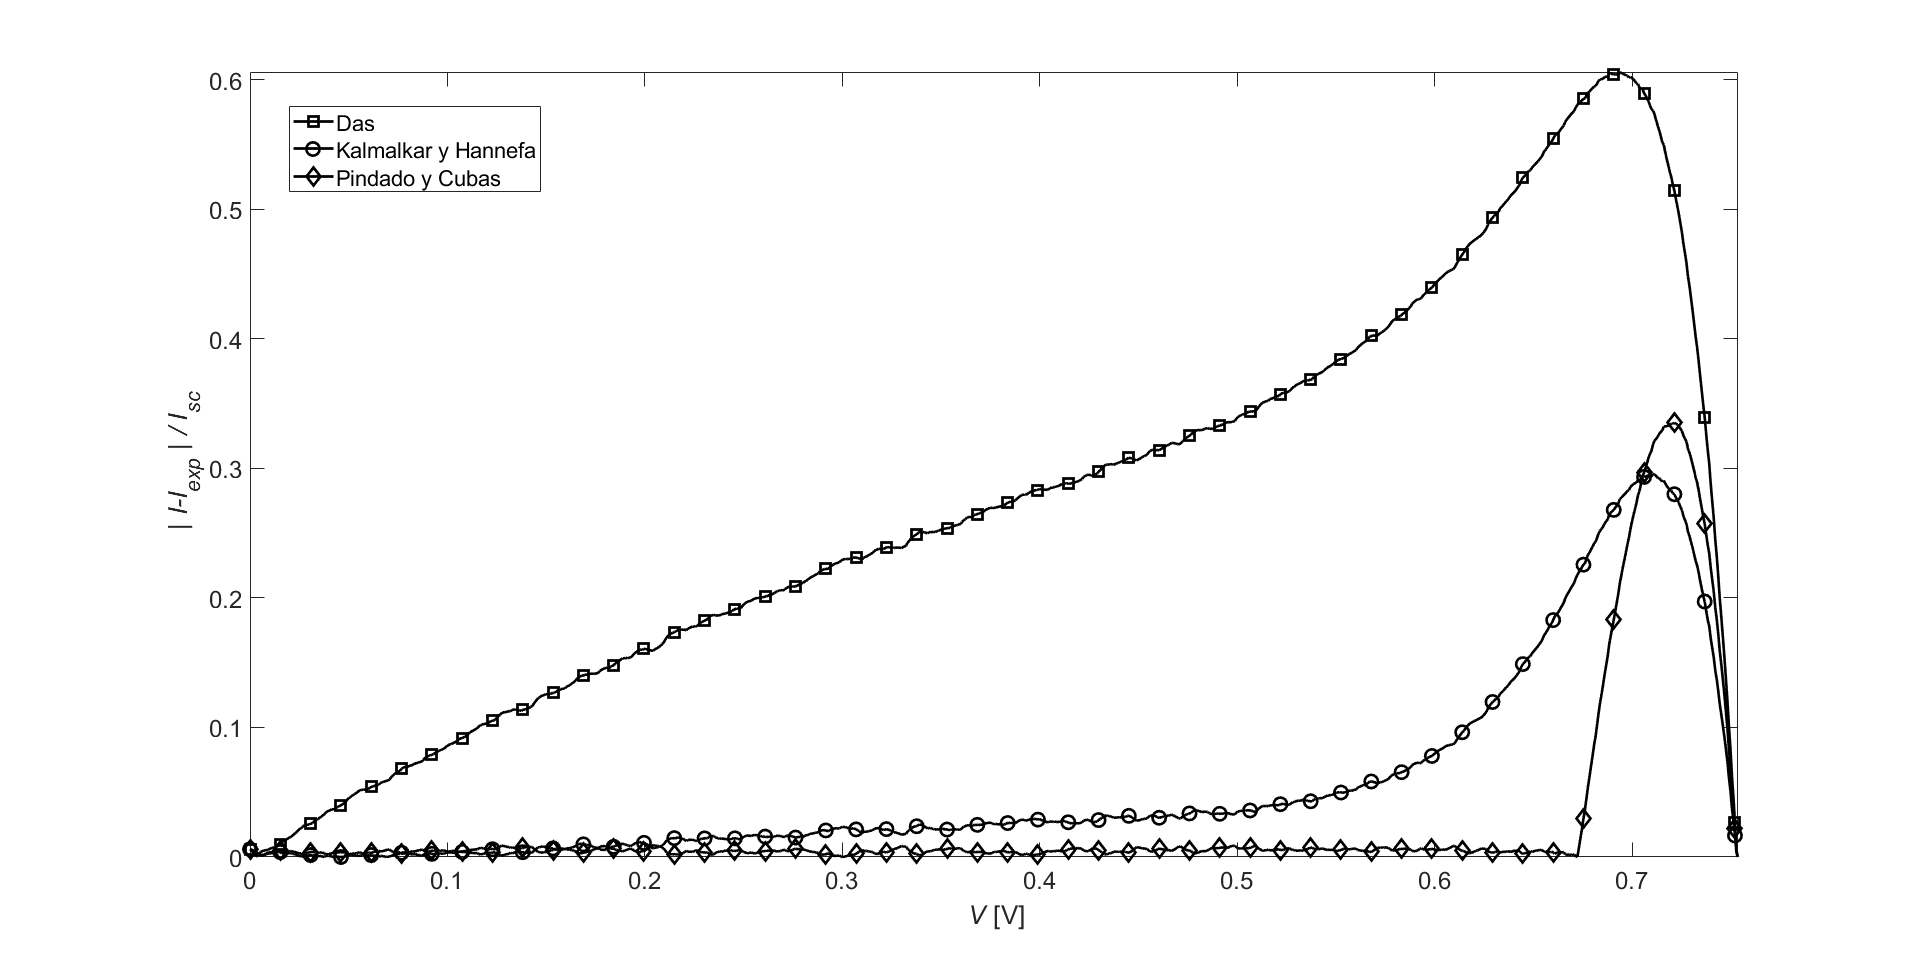
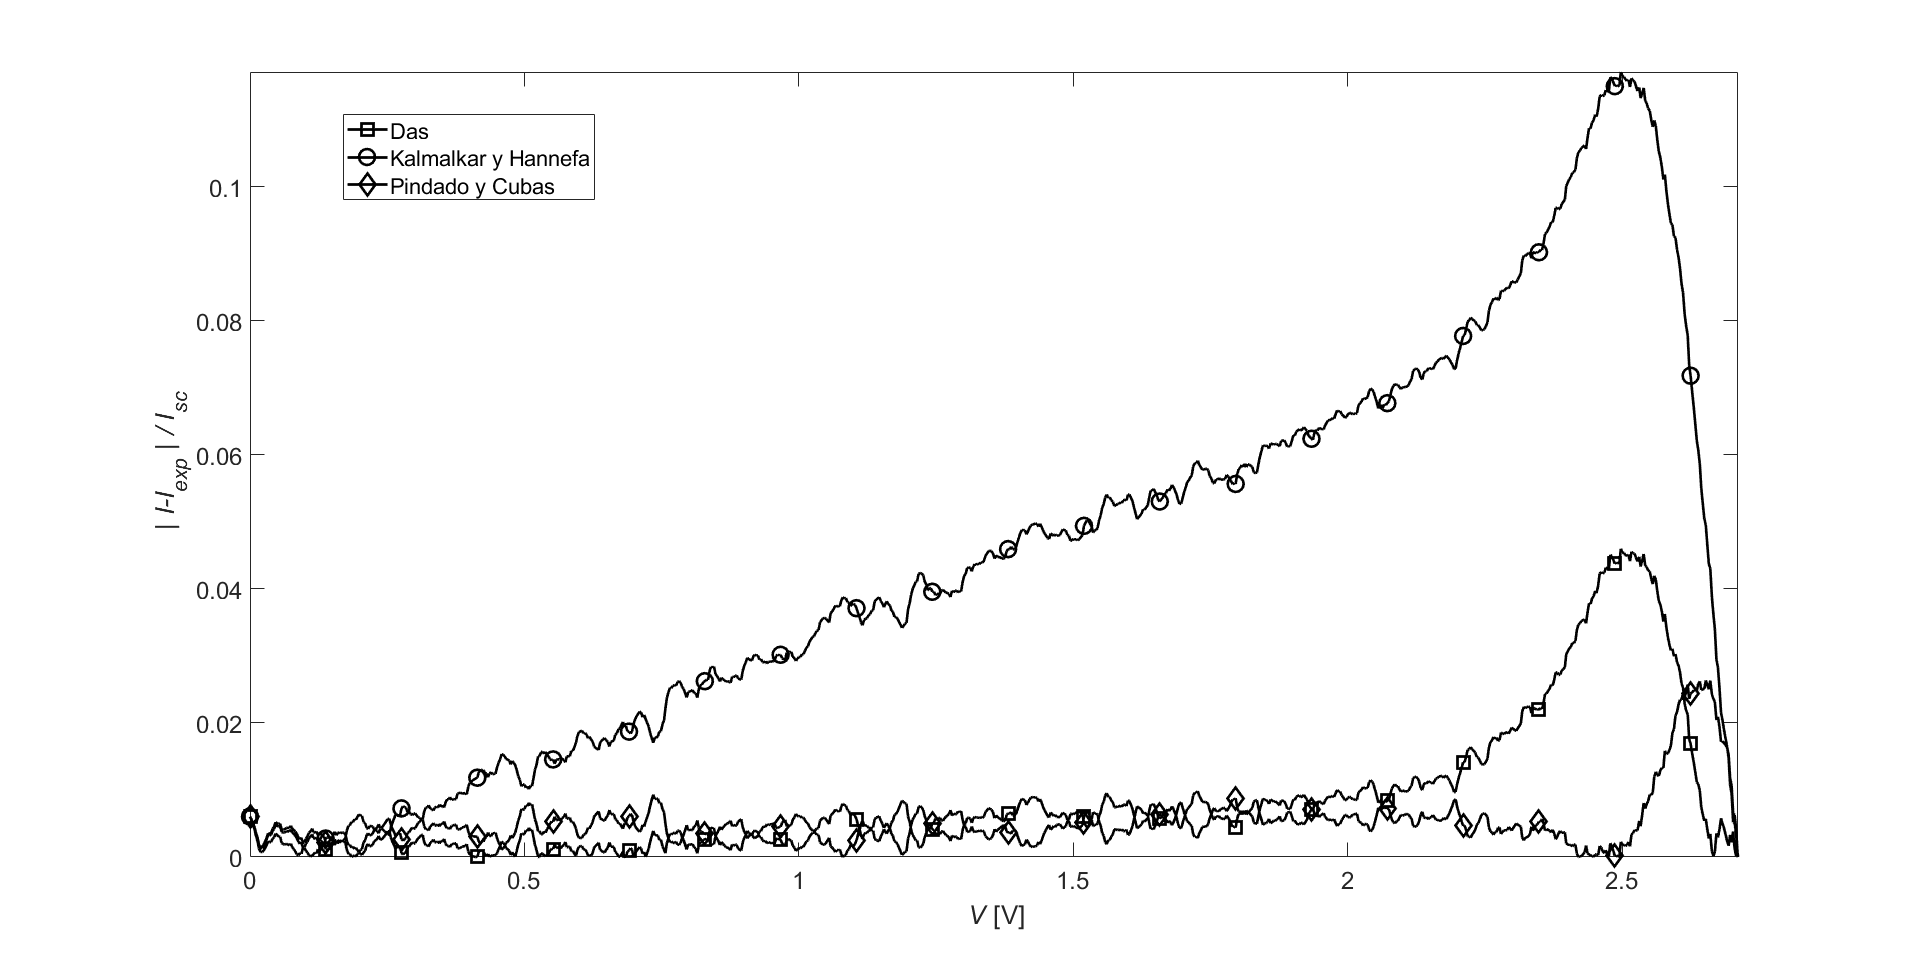
Correccion de errores

diff --git a/Trabajo 2. Modelos explicitos/Scripts/calculo_coeficientes_modelo_explicito.m b/Trabajo 2. Modelos explicitos/Scripts/calculo_coeficientes_modelo_explicito.m
@@ -6,7 +6,7 @@ Datos_paneles
 global model
 %% Escoger apartado
 choose = 2;         % 1: Apartado 1      2: Apartado 2
-model = 1;          % 1: Da's model      2: Karmalkar & Hannefa's model      3: Pindado & Cubas's model1
+model = 3;          % 1: Da's model      2: Karmalkar & Hannefa's model      3: Pindado & Cubas's model1
 %____________________________________________________________________________________
 %% Puntos caracteristicos
 % Orden de los datos de la matriz A:
@@ -69,7 +69,7 @@ switch(model)
         I_das = zeros(size(dat,2),size(V,2));
         for i = 1:size(dat,2)
             for j = 1: size(V,2)
-                I_das(i,j) = dat(1,i) .* ( ( 1 - ( V(i,j) ./ dat(4,i) ) .^k(i) ./ ( 1 + h(i) .* ( V(i,j) ./ dat(4,i) ) ) ) );
+                I_das(i,j) = dat(1,i) .* ( ( 1 - ( V(i,j) ./ dat(4,i) ) .^k(i)) ./ ( 1 + h(i) .* ( V(i,j) ./ dat(4,i) ) ) ) ;
             end
         end
 
@@ -511,7 +511,7 @@ end
         u = [gamma; m];    
 
         case 3
-        u = eta;
+        u = eta_ba;
 
     end
 
@@ -565,17 +565,17 @@ end
     n = length(I_exp);
 
     
-   if size(u,2) > 1
+   if size(u,1) > 1
     error(i) =  RECT(u(:,i),V,I_exp);
     RMSE_adim(i) = RMSE_NonDim(u(:,i),V,I_exp);
     
-    [RMSE_PbP_Dim(:),RMSE_PbP_NonDim(:)] = error_PbPfun(u(:,i),V,I_exp);
+    [RMSE_PbP_Dim(:),RMSE_PbP_NonDim(:),~] = error_PbPfun(u(:,i),V,I_exp);
    
    else 
-    error(i) =  RECT(u,V,I_exp);
-    RMSE_adim(i) = RMSE_NonDim(u,V,I_exp);
+    error(i) =  RECT(u(i),V,I_exp);
+    RMSE_adim(i) = RMSE_NonDim(u(i),V,I_exp);
     
-   [RMSE_PbP_Dim(:),RMSE_PbP_NonDim(:)] = error_PbPfun(u,V,I_exp);
+   [RMSE_PbP_Dim(:),RMSE_PbP_NonDim(:),~] = error_PbPfun(u(i),V,I_exp);
    end 
     %Plot error en cada punto
 

diff --git a/Trabajo 2. Modelos explicitos/Scripts/error_PbPfun.m b/Trabajo 2. Modelos explicitos/Scripts/error_PbPfun.m
@@ -1,7 +1,7 @@
-function [RMSE_PbP_Dim,RMSE_PbP_NonDim] = error_PbPfun(u, V, I_exp)
+function [RMSE_PbP_Dim,RMSE_PbP_NonDim,I_modelo] = error_PbPfun(u, V, I_exp)
 global I_sc
 for i=1:size(V,2)
 	I_modelo(i) = Panel_Current(u,V(i));
+    RMSE_PbP_Dim(i) = abs(I_modelo(i) - I_exp(i));
+    RMSE_PbP_NonDim(i) = (1/I_sc)*abs(I_modelo(i) - I_exp(i));
 end
-RMSE_PbP_Dim(:) = abs(I_modelo(:) - I_exp(:));
-RMSE_PbP_NonDim(:) = (1/I_sc)*abs(I_modelo(:) - I_exp(:));
